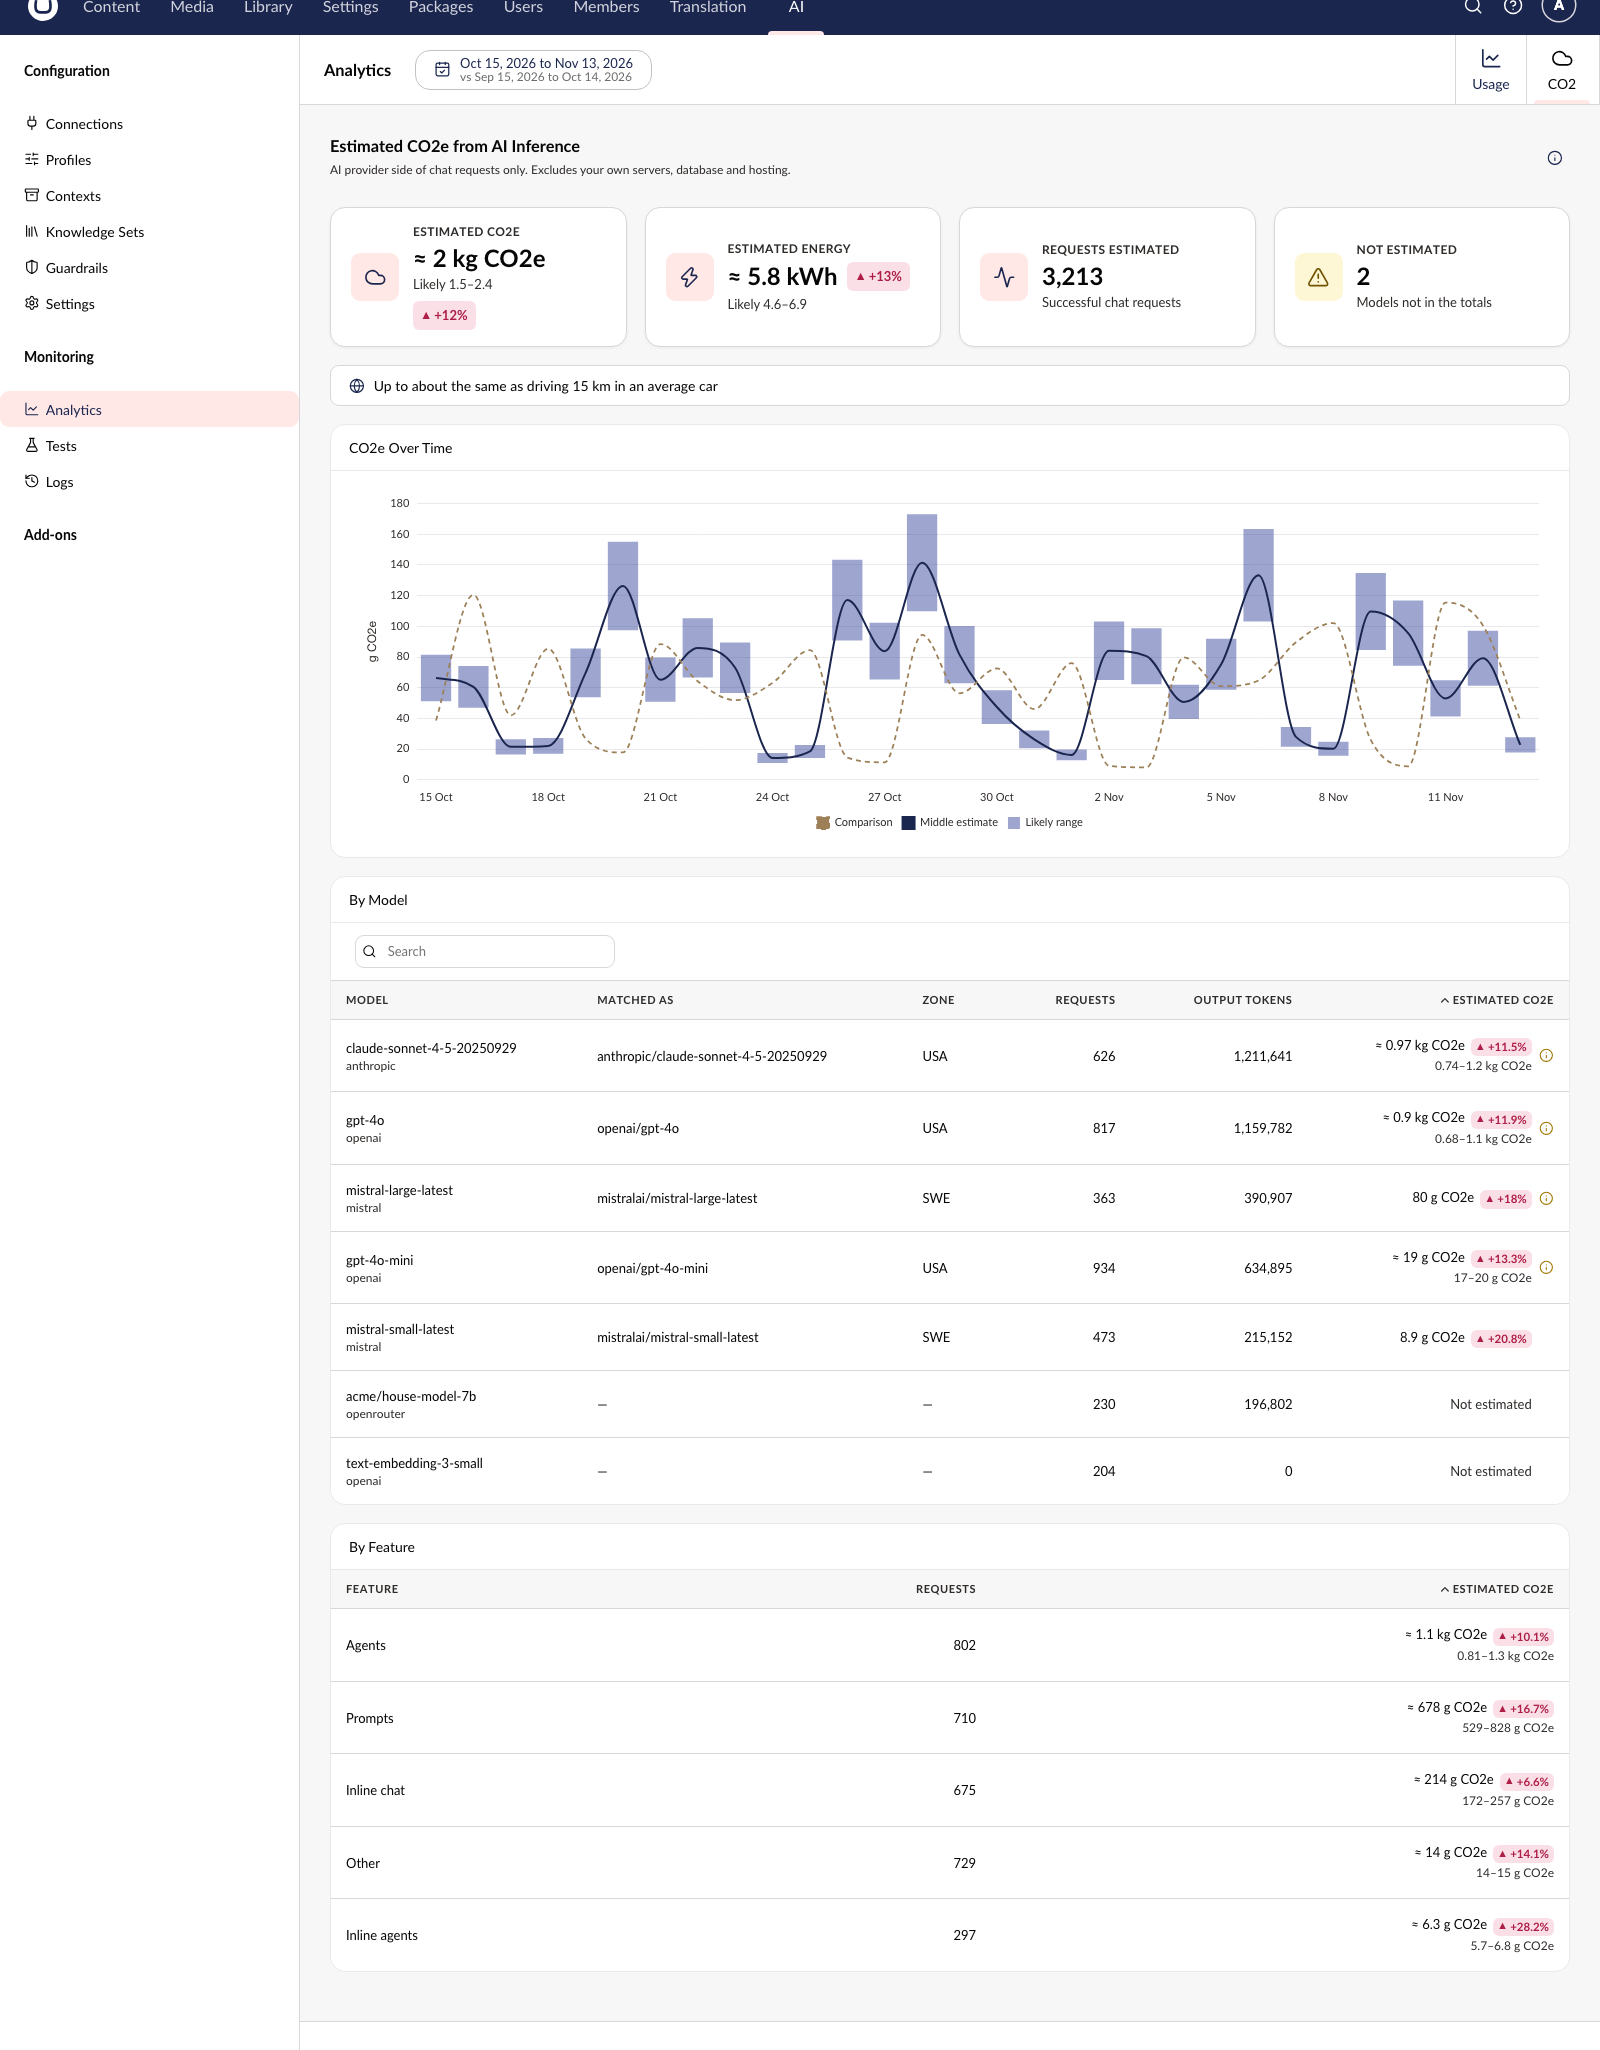
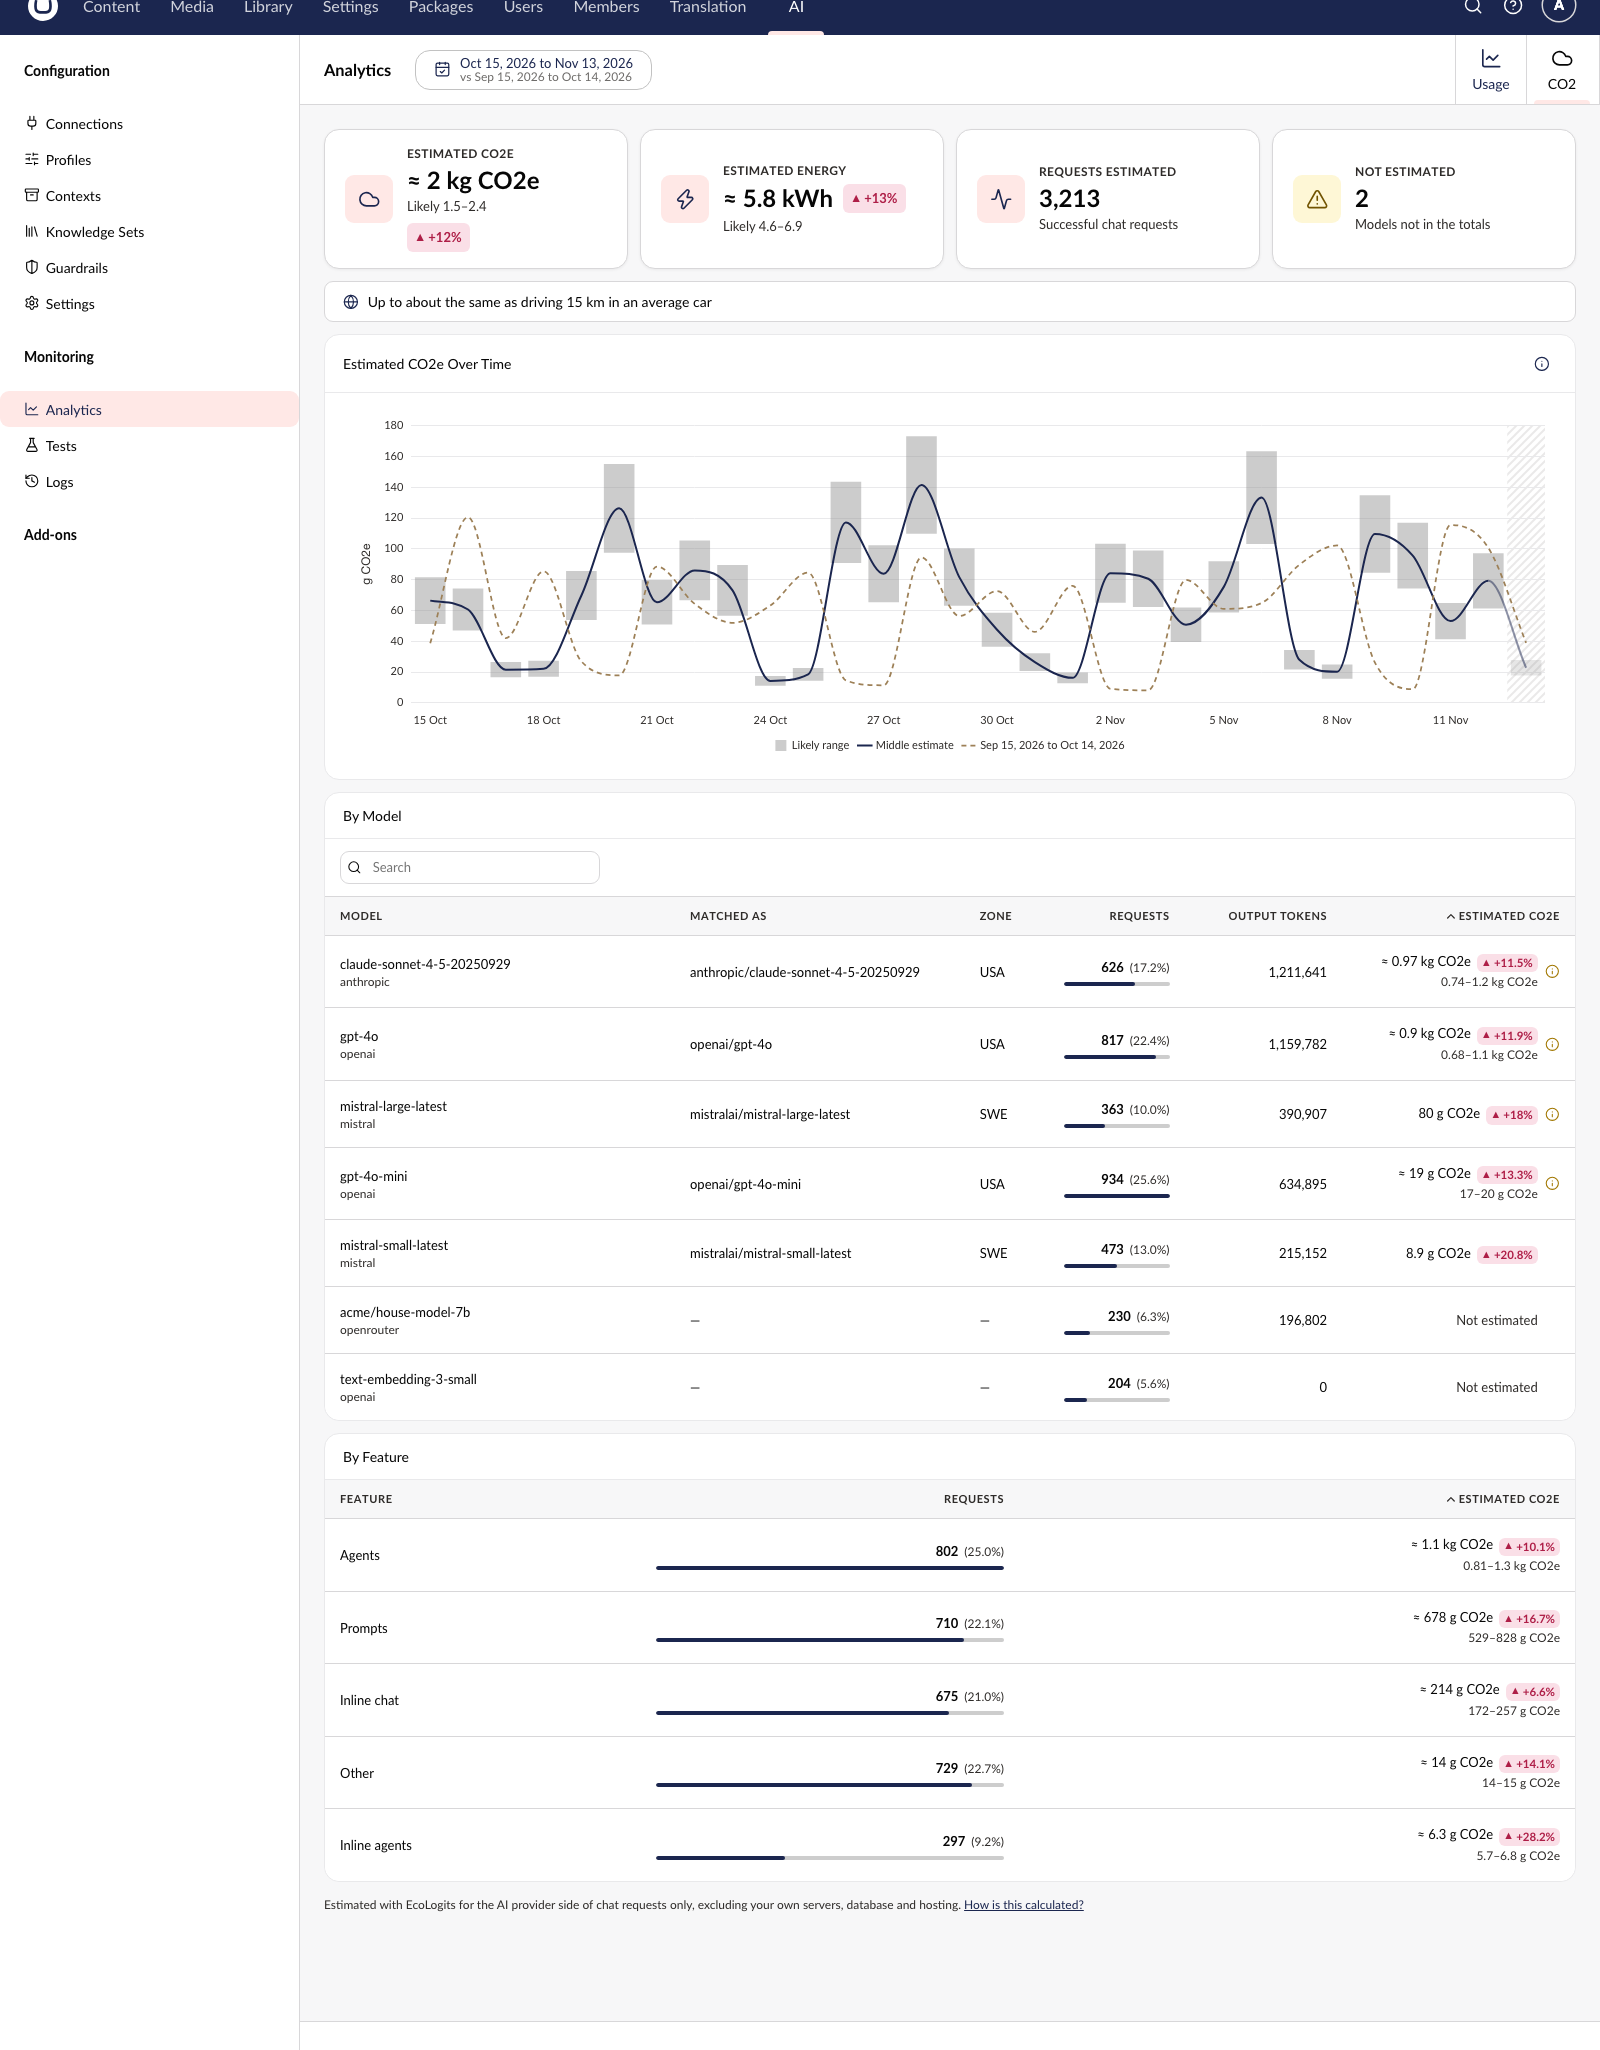
docs: Update the README and screenshot for the aligned CO2 tab

diff --git a/README.md b/README.md
@@ -4,7 +4,7 @@
 
 Adds an estimated CO2 dashboard to [Umbraco.AI](https://github.com/umbraco/Umbraco.AI). It reads the usage Umbraco.AI already records and shows the estimated energy and CO2e (carbon dioxide equivalent) of your text generation, by model, by feature and over time. It follows the date range you pick in the Analytics header, including its comparison with an earlier period. Each energy and CO2e figure leads with a rounded middle estimate (≈) and shows the low-to-high range under it.
 
-![The CO2 tab in Umbraco.AI Analytics for the last 30 days compared with the previous period: estimated CO2e and energy tiles with change badges, an everyday comparison, a daily chart with likely-range bars, a middle-estimate line and a dashed comparison line, and tables by model and by feature](https://raw.githubusercontent.com/mattbrailsford/Umbraco.Community.AI.Carbon/HEAD/docs/images/co2-dashboard.png)
+![The CO2 tab in Umbraco.AI Analytics for the last 30 days compared with the previous period: estimated CO2e and energy tiles with change badges, an everyday comparison, a daily chart with a grey likely-range band, a blue middle-estimate line and a dashed comparison line, tables by model and by feature with share bars, and a footnote on what the estimate covers](https://raw.githubusercontent.com/mattbrailsford/Umbraco.Community.AI.Carbon/HEAD/docs/images/co2-dashboard.png)
 
 *Screenshot uses sample data.*
 
@@ -40,13 +40,13 @@ The tab has no range picker of its own. It uses the date range in the Analytics 
 
 ## What the dashboard shows
 
-- **Header:** says the figures cover the AI provider side of chat requests only, not your own servers, database or hosting. The info icon opens the "How is this calculated?" panel.
+- **Scope note:** a footnote under the tables says the figures cover the AI provider side of chat requests only, not your own servers, database or hosting. Its "How is this calculated?" link opens the method panel. The info icon in the chart's header opens the same panel.
 - **Tiles:** estimated CO2e, estimated energy, requests estimated, and how many models could not be estimated.
 - **Comparison:** with the header's comparison on, the CO2e and energy tiles and the CO2e column in both tables show how much the figure changed against the compared period (a fall is the good direction). The chart adds a dashed line for the compared period.
 - **Everyday comparison** (on by default, see `ShowEquivalents`): the top of the estimate as something familiar, for example "Up to about the same as charging a phone 13 times".
-- **CO2e over time:** a bar for each hour or day showing the likely range, with a line for the middle estimate. Hover a point to see its figures.
-- **By model:** each model Umbraco.AI used, the EcoLogits model it was matched to, the electricity zone, requests, output tokens and estimated CO2e. Models that can't be estimated say so, with the reason. You can sort the columns, search by model name and page through the rows.
-- **By feature:** the same estimate split by agents, prompts, inline chat and other uses. You can sort and page it.
+- **CO2e over time:** a grey band for each hour or day showing the likely range, with a blue line for the middle estimate. Hover a point to see its figures and, with comparison on, the change. The hour or day still in progress is hatched and faded. On an hourly range, a "Now" line marks the current hour.
+- **By model:** each model Umbraco.AI used, the EcoLogits model it was matched to, the electricity zone, requests (with a share bar), output tokens and estimated CO2e. Models that can't be estimated say so, with the reason. You can sort the columns, search by model name and page through the rows.
+- **By feature:** the same estimate split by agents, prompts, inline chat and other uses, with a share bar for requests. You can sort and page it.
 
 While figures load, the tab shows placeholders. A range with no usage shows an empty message. If the estimate cannot be loaded, it shows an error with a **Retry** button.
 
